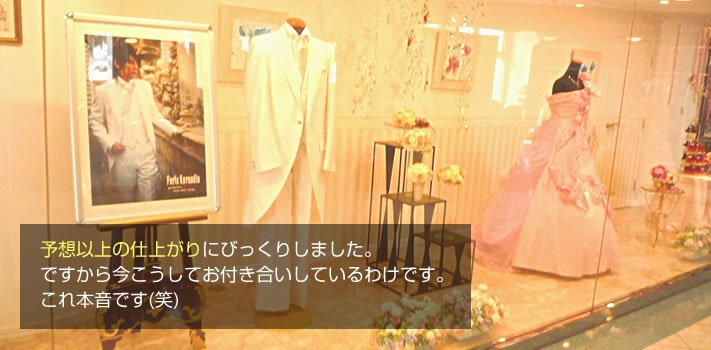
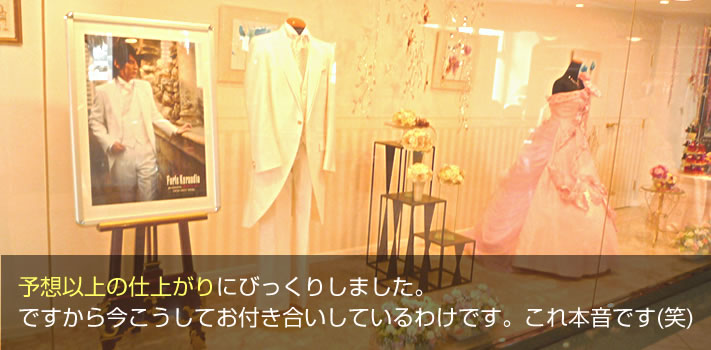
VOICE

Changed region(s): [[0.0, 0.6286, 1.0, 1.0]]

diff --git a/voice/voice2/index.html b/voice/voice2/index.html
@@ -5,6 +5,7 @@
 <title>お客様の声　株式会社ラン・トラスト様インタビュー</title>
 <meta name="keywords" content="椅子,クリーニング,ソフトウェア開発,お客様の声,インタビュー">
 <meta name="description" content="タックでカーペットクリーニングを実施いただいたラン・トラスト様へのインタビュー">
+<meta name="viewport" content="width=device-width,initial-scale=1">
 <meta http-equiv="Content-Style-Type" content="text/css" />
 <meta http-equiv="Content-Script-Type" content="text/javascript" />
 <script type="text/javascript" src="https://ajax.googleapis.com/ajax/libs/jquery/1.6.2/jquery.min.js"></script>
@@ -53,12 +54,12 @@
 					※カーペットクリーニングを平成１９年から年に２回定期的に作業。<br>
 					※インフラを支えるソフトウェア企業 </dd>
 			</dl>
-			<h2><img src="img/copy.gif" alt="会社同志の長い付き合いのできる相手。" width="709" height="41"></h2>
-			<img src="img/ph.jpg" alt="" width="256" height="942" class="floatR" >
+			<h2>会社同志の長い付き合いのできる相手。</h2>
 			<div class="voiceTxtBox">
 				<dl>
 					<dt>― カーペットクリーニングはご存じでしたか。 </dt>
-					<dd> ここのビルに十年くらい前に入ったんですが、その後にオフィスクリーニング専門の大手の会社がキャンペーンで毎日掃除にきて、年に2回クリーニングをやりますというのがあって、それを２年くらいやっていて、その時急激に景気が落ちたんですよ。IT不況ってやつかな(笑)その時1番最初に削減できるので、１回止めちゃったんですよ。 </dd>
+					<dd> ここのビルに十年くらい前に入ったんですが、その後にオフィスクリーニング専門の大手の会社がキャンペーンで毎日掃除にきて、年に2回クリーニングをやりますというのがあって、それを２年くらいやっていて、その時急激に景気が落ちたんですよ。IT不況ってやつかな(笑)その時1番最初に削減できるので、１回止めちゃったんですよ。
+					<div><img src="img/ph1.jpg" alt=""/></div> </dd>
 					<dt> ― ㈱タックをどこでお知りになりましたか。</dt>
 					<dd> カーペットクリーニングをネットを調べたら、金額もきちんと出ていたし、あと、ホームページが うちは真面目にやってますと言う雰囲気だったので、連絡しました。</dd>
 					<dt> ― カーペットクリーニングにどこまで期待していましたか。 </dt>
@@ -68,18 +69,19 @@
 					<dt>― 他社と比べていかがでしたか。</dt>
 					<dd>ホームページに金額があまり出てないんだよね。タックさんのには金額が出ていて、このくらいならと思った。</dd>
 					<dt>― ㈱タックに決めた理由はなんですか。</dt>
-					<dd> 金額もきちんと出ていたし、ホームページがね、うちは真面目にやってますと言う雰囲気の ホームページだったので、来て頂いたんです。そしたら、ホームページと同じような印象で、極々普通に真面目にやってますと言うのが見えたので、会社同士の長いお付き合いができる相手だと感じて。 </dd>
+					<dd> 金額もきちんと出ていたし、ホームページがね、うちは真面目にやってますと言う雰囲気の ホームページだったので、来て頂いたんです。そしたら、ホームページと同じような印象で、極々普通に真面目にやってますと言うのが見えたので、会社同士の長いお付き合いができる相手だと感じて。 
+					<div><img src="img/ph2.jpg" alt=""/></div></dd>
 					<dt>― カーペットのクリーニングをやって良かったですか。 </dt>
 					<dd>お陰様で汚れが気にならず、気持ちよく仕事ができてます。</dd>
 					<dt>― ㈱タックに依頼して良かったと思うことを教えてください。</dt>
 					<dd>他社とは比べようがないが、会社としての対応はきちんとしているし、作業員の教育もしっかりしているのがよくわかる。負の部分が無いことが素晴らしいことだよね。</dd>
 					<dt>― ㈱タックへの要望を教えてください。 </dt>
-					<dd>今まで通りきちんとした作業をしてもらえればいいんです。できればサービス内容を広げて、いろいろ協力してもらえるとありがたいが、手を広げすぎて作業の質が落ちるのは困るけどね </dd>
+					<dd>今まで通りきちんとした作業をしてもらえればいいんです。できればサービス内容を広げて、いろいろ協力してもらえるとありがたいが、手を広げすぎて作業の質が落ちるのは困るけどね 
+					<div><img src="img/ph3.jpg" alt=""/></div></dd>
 				</dl>
 			</div>
-			<div class="tabtouBox">田嶋様ご協力ありがとうございました。営業品目につきましては、椅子、カーペット<br>
-				以外にもエアコンクリーニング・ブラインドクリーニング等いろいろありますので<br>
-				ご相談ください。<br>
+			<div class="tabtouBox">田嶋様ご協力ありがとうございました。営業品目につきましては、椅子、カーペット
+				以外にもエアコンクリーニング・ブラインドクリーニング等いろいろありますのでご相談ください。<br>
 			</div>
 			
 			<!--VoiceNavi-->
@@ -97,8 +99,6 @@
 
 <!--contact-->
 
-	<div class="contactBlock"> <a href="http://www.tack-ic.jp/info/inquiry.html"><img src="/common/img/btn_contact.png" width="376" height="91" class="btn hover"></a>
-	</div>
 <!--//contact-->
 </div>
 <!--//wrapper-->

diff --git a/voice/voice1/index.html b/voice/voice1/index.html
@@ -5,6 +5,7 @@
 <title>お客様の声　エルセルモAQUA様インタビュー</title>
 <meta name="keywords" content="椅子,クリーニング,ウェディング,お客様の声,インタビュー">
 <meta name="description" content="タックで椅子クリーニングを実施いただいたエルセルモ様へのインタビュー">
+<meta name="viewport" content="width=device-width,initial-scale=1">
 <meta http-equiv="Content-Style-Type" content="text/css" />
 <meta http-equiv="Content-Script-Type" content="text/javascript" />
 <script type="text/javascript" src="https://ajax.googleapis.com/ajax/libs/jquery/1.6.2/jquery.min.js"></script>
@@ -55,12 +56,13 @@
 						※絶好のロケーション。海の見えるチャペルウエディング。 </p>
 				</dd>
 			</dl>
-			<h2><img src="img/copy.gif" alt="予想以上の仕上がりにびっくりしました" width="709" height="41"></h2>
-			<img src="img/ph.jpg" width="256" height="1102" class="floatR" >
+			<h2 class="voiceTtl">予想以上の仕上がりにびっくりしました</h2>
 			<div class="voiceTxtBox">
 				<dl>
 					<dt>― 椅子クリーニングはご存じでしたか。</dt>
-					<dd> 知らなかったです。今までずっとやっていなくて、お客様からクレームを受けたんですね。座りたくないとか、汚れていると。それで調べたんです。 </dd>
+					<dd> 知らなかったです。今までずっとやっていなくて、お客様からクレームを受けたんですね。座りたくないとか、汚れていると。それで調べたんです。 
+					<div><img src="img/ph1.jpg" alt=""/></div>
+					</dd>
 					<dt>― ㈱タックをどこでお知りになりましたか。</dt>
 					<dd> ホームページで椅子クリーニングを検索したら、御社がヒットしたんですね。 
 						いくつかある中で、見やすかったんでしょうね、ホームページが。それで電話で連絡をしたんですね。 <br>
@@ -75,7 +77,8 @@
 					<dd> デモクリーニングの仕上がりが段違いで良かったことは印象に残っています。 
 						金額の面での差はほとんど無かったと思います</dd>
 					<dt>― ㈱タックに決めた理由はなんですか。 </dt>
-					<dd> 何よりも仕上がりの良さです。結婚式場ですのでお客様の印象は大事ですから。それに担当していただいた方の対応がとても良かったことですね。</dd>
+					<dd> 何よりも仕上がりの良さです。結婚式場ですのでお客様の印象は大事ですから。それに担当していただいた方の対応がとても良かったことですね。
+					<div><img src="img/ph2.jpg" alt=""/></div></dd>
 					<dt>― 椅子・カーペットのクリーニングをやって良かったですか。</dt>
 					<dd>特に結婚式場の椅子は使い捨てのイメージがありまして、汚くなったら次のものという可能性が高いです。<br>
 						私のいたところもずっとそうでした。やはり、物を大切に長く使うことも大事です。今のように経費もかなり浮いてるはずですから。目に見えないところで助けて頂いてると思いますね。 </dd>
@@ -83,17 +86,15 @@
 					<dd>タックさんに関しては、お付き合いの長さもあり、電話1本ですぐに見積もりを頂いたり、作業をお任せできます。その柔軟な対応で今まで選ばせて頂いています。
 						<br>
 						作業の方もきちんとしていらっしゃると思います。ユニフォームも、綺麗なユニフォームを着ているので、結婚式場ですので、不意のお客様がいらした時も不都合が無いと思います。 <br>
-						スタッフの方々に対してこちらから要望することは無いですね。今のスキルを持ち続けてもらい長いお付き合いをさせて頂きたいと思っています。 </dd>
+						スタッフの方々に対してこちらから要望することは無いですね。今のスキルを持ち続けてもらい長いお付き合いをさせて頂きたいと思っています。
+					<div><img src="img/ph3.jpg" alt=""/></div> </dd>
 					<dt>― ㈱タックへの要望を教えてください。</dt>
-					<dd>これからも今まで通りよい作業をご提供いただき、お客様に気持ち良く式場をお使いいただけるようお力をお借りしたいですね。</dd>
-					<dt>&nbsp;</dt>
+					<dd>これからも今まで通りよい作業をご提供いただき、お客様に気持ち良く式場をお使いいただけるようお力をお借りしたいですね。
+					<div><img src="img/ph4.jpg" alt=""/></div></dd>
 				</dl>
 			</div>
 			<div class="tabtouBox">
-				<p>田中様ご協力ありがとうございました。<br>
-					いろいろとお褒めのことばを頂きまして
-					ありがとうございました。<br>
-					今後もさらなる向上心でがんばります。よろしくお願いいたします。<br>
+				<p>田中様ご協力ありがとうございました。いろいろとお褒めのことばを頂きましてありがとうございました。今後もさらなる向上心でがんばります。よろしくお願いいたします。<br>
  </p>
 			</div>
 			
@@ -112,8 +113,7 @@
 
 <!--contact-->
 
-	<div class="contactBlock"> <a href="http://www.tack-ic.jp/info/inquiry.html"><img src="/common/img/btn_contact.png" width="376" height="91" class="btn hover"></a>
-	</div>
+	
 <!--//contact-->
 </div>
 <!--//wrapper-->

diff --git a/voice/voice3/index.html b/voice/voice3/index.html
@@ -5,6 +5,7 @@
 <title>お客様の声　レストランt.r様インタビュー</title>
 <meta name="keywords" content="椅子,クリーニング,レストラン,お客様の声,インタビュー">
 <meta name="description" content="タックでカーペットクリーニングを実施いただいたレストランt.r様へのインタビュー">
+<meta name="viewport" content="width=device-width,initial-scale=1">
 <meta http-equiv="Content-Style-Type" content="text/css" />
 <meta http-equiv="Content-Script-Type" content="text/javascript" />
 <script type="text/javascript" src="https://ajax.googleapis.com/ajax/libs/jquery/1.6.2/jquery.min.js"></script>
@@ -53,17 +54,18 @@
 					０３－５７９１－５６４７ <br>
 					※椅子・カーペットのクリーニングを平成１６年から年に２回定期的に作業。 <br>※素材本来の美味しさを心掛けた季節感ある料理とワインのたのしめる隠れ家レストラン。 </p></dd>
 			</dl>
-			<h2><img src="img/copy.gif" alt="プロの作業はここまできれいになるのかと驚きました。" width="709" height="41"></h2>
-			<img src="img/ph.jpg" alt="" width="256" height="841" class="floatR" >
+			<h2>プロの作業はここまできれいになるのかと驚きました。</h2>
 			<div class="voiceTxtBox">
 				<dl>
 					<dt>― 椅子・カーペットクリーニングはご存じでしたか </dt>
-					<dd>						そういうことがあるだろうとは、何となく分っていました。僕も飲食業が長いですから、そういうものが入るだろうとは思っていました。 </dd>
+					<dd>						そういうことがあるだろうとは、何となく分っていました。僕も飲食業が長いですから、そういうものが入るだろうとは思っていました。 
+					<div><img src="img/ph1.jpg" alt=""/></div> </dd>
 					<dt> ― ㈱タックをどこでお知りになりましたか。 </dt>
 					<dd> 一番初めは、FAXでキャンペーンのお知らせを頂いたんですが、正直それまで御社のお名前は知らなかったんです。 </dd>
 					<dt> ― 椅子・カーペットのクリーニングにどこまで期待していましたか。 </dt>
 					<dd> それまでは、自分たちでずっとやってたんですけどね。ホームセンターで売っているものを使ってたんですけど、どうにもならない状態というか、汚れが全然落ちないもんですから、その時は、今より良くなれば良いやという程度のものだったと思います。 <br>
-						僕ら素人がやるよりもはるかに綺麗になる事は想像できました。</dd>
+						僕ら素人がやるよりもはるかに綺麗になる事は想像できました。
+					<div><img src="img/ph2.jpg" alt=""/></div> </dd>
 					<dt>						― 他社にも問い合わせはしましたか。</dt>
 					<dd> 以前に大手のフロアマットの業者さんに、金額の問い合わせをしたことはあったと思います。 </dd>
 					<dt> ― 他社と比べていかがでしたか。 </dt>
@@ -73,7 +75,8 @@
 						それが目に入ってきて、これは安い、他者さんに比べたら半分くらいの値段じゃないかなと思ったものですから、でまあ、頼んでみようかなということになったのです。</dd>
 					<dt>― 椅子・カーペットのクリーニングをやって良かったですか。</dt>
 					<dd> 本当に作業後は、オープン当初の時と同じような、お店の中が明るくなったというか、全然違ったのでびっくりしました。<br>
-						椅子のシミも、本当綺麗に落ちていたので、まさか取れると思っていなかったもんですから、気になっていた汚れが全て取れ、プロの作業はここまできれいになるのかと驚きました。とても満足しています。 </dd>
+						椅子のシミも、本当綺麗に落ちていたので、まさか取れると思っていなかったもんですから、気になっていた汚れが全て取れ、プロの作業はここまできれいになるのかと驚きました。とても満足しています。 
+					<div><img src="img/ph3.jpg" alt=""/></div> </dd>
 					<dt> ― ㈱タックに依頼して良かったと思うことを教えてください。 </dt>
 					<dd> クリーニングの仕上がりはいつも大感激です。社員教育がきちんとされているのもよくわかります。 <br>
 						それともう１つ良かったのが、ジュウタンに関する知識が無かったんですが、メンテナンスに関する知識も教えてもらえることですね。 </dd>
@@ -83,9 +86,7 @@
 				</dl>
 			</div>
 			<div class="tabtouBox">
-				<p>小熊様ご協力ありがとうございました。<br>
-					作業時間につきましては、スケジュールの関係でいつもご相談になってしまいます。<br>
-					ご理解の上今後もよろしくお願いいたします。 </p>
+				<p>小熊様ご協力ありがとうございました。作業時間につきましては、スケジュールの関係でいつもご相談になってしまいます。ご理解の上今後もよろしくお願いいたします。 </p>
 			</div>
 			
 			<!--VoiceNavi-->
@@ -103,8 +104,6 @@
 
 <!--contact-->
 
-	<div class="contactBlock"> <a href="http://www.tack-ic.jp/info/inquiry.html"><img src="/common/img/btn_contact.png" width="376" height="91" class="btn hover"></a>
-	</div>
 <!--//contact-->
 </div>
 <!--//wrapper-->

diff --git a/voice/css/style.css b/voice/css/style.css
@@ -7,29 +7,27 @@
 
 .companyInfo{
 	background:#EEE;
-	padding:15px;
-	font-size:12px;
+	padding:3%;
 	line-height:1.4em;
 	margin-bottom:30px;
 }
-
+#contents h3.navTtl{
+	background: rgba(220,0,3,1.00);
+	color: #FFF;
+	padding: 1.5%;
+}
 .companyInfo dt{
-	float:left;
-	width:170px;
 	font-weight:bold;
-	text-align:right;
-	padding-right:15px;
+	border-bottom:1px solid #C00;
+	padding-bottom: 2%;
 }
 
 .companyInfo dd{
-	float:left;
-	width:470px;
-	border-left:3px solid #C00;
-	padding-left:15px;
+	font-size: 90%;
+	padding-top: 2%;
 }
 
 .voiceTxtBox{
-	padding-right:270px;
 	padding-bottom:15px;
 }
 
@@ -42,9 +40,12 @@
 .voiceTxtBox dd{
 	padding:0 0 10px 0 ;
 }
+.voiceTxtBox dd div{
+	padding-top: 2%;
+}
 
 .tabtouBox{
-	background:#EEE url(../img/icon.gif) no-repeat 8px center;
+	background:#EEE url(../img/icon.gif) no-repeat 8px 10px;
 	padding:10px 5px 10px 95px;
 	color:#666;
 	margin-bottom:15px;
@@ -52,7 +53,14 @@
 
 #voice h2{
 	background:none;
-	padding:0px 0px 30px 0px;
+	padding:0px 0px 0px 0px;
+	border: none;
+	font-family: "ヒラギノ明朝 ProN W6", "HiraMinProN-W6", "HG明朝E", "ＭＳ Ｐ明朝", "MS PMincho", "MS 明朝", serif;
+	font-size: 120%;
+}
+#voice h2:first-letter{
+	font-size: 35px;
+	color: #D70003;
 }
 #voice h3{
 	border:none;

diff --git a/voice/include/navi.php b/voice/include/navi.php
@@ -1,9 +1,9 @@
-<h3><img src="../img/ttl.gif" width="711" height="31"></h3>
+<h3 class="navTtl">お客さまの声</h3>
 			<ul class="voiceNavi">
-			<li><a href="http://www.tack-ic.jp/voice/voice1/">vol.1 エルセルモAQUA様<br>
+			<li><a href="/sp/voice/voice1/">vol.1 エルセルモAQUA様<br>
 <span class="fontB">予想以上の仕上がりにびっくりしました。</span></a></li>
-			<li><a href="http://www.tack-ic.jp/voice/voice2/">Vol.2 株式会社ラン・トラスト様<br>
+			<li><a href="/sp/voice/voice2/">Vol.2 株式会社ラン・トラスト様<br>
 <span class="fontB">会社同士の長い付き合いのできる相手。</span></a></li>
-			<li><a href="http://www.tack-ic.jp/voice/voice3/">vol.3 レストランt.r様<br>
+			<li><a href="/sp/voice/voice3/">vol.3 レストランt.r様<br>
 <span class="fontB">プロの作業はここまできれいになるのかと驚きました。とても満足しています。</span></a></li>
 			</ul>
